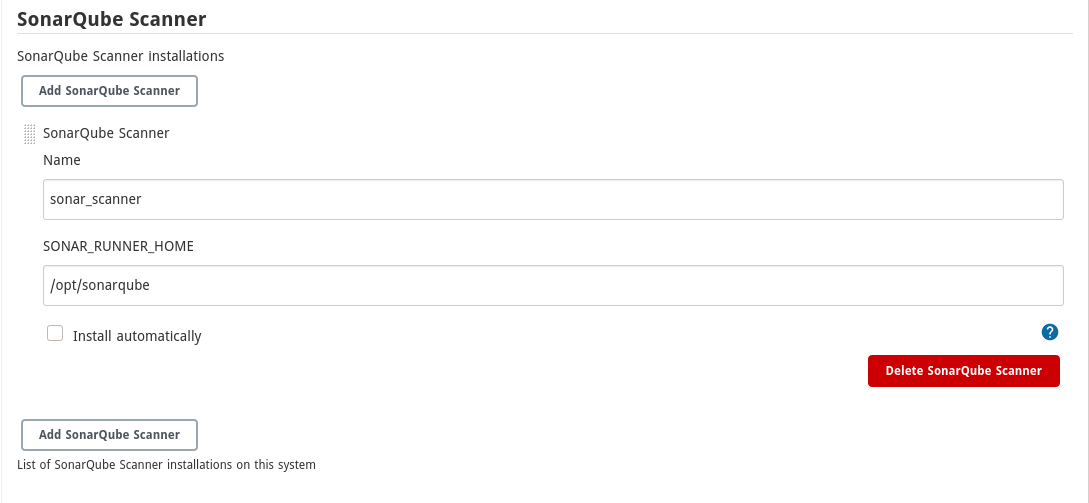
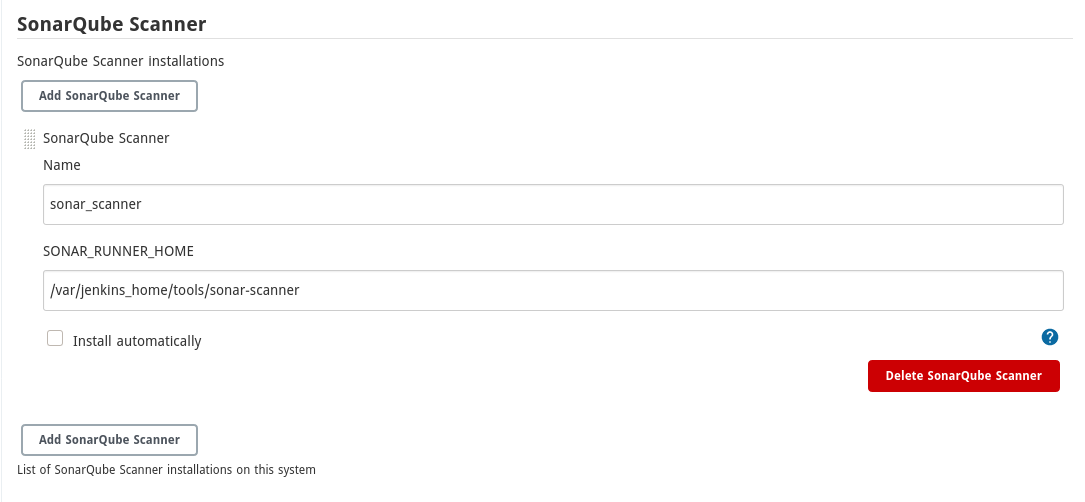
update readme Instalacion

diff --git a/README.md b/README.md
@@ -246,7 +246,7 @@ Primero de todo debemos instalar el plugin de Sonarqube en Jenkins, para ello de
 Configurar la ruta Home de Sonarqube `Dashboard > Manage Jenkins > Global tool configuration > Sonarqube Scanner`. Pero antes debemos crear una carpeta dentro del container de jenkins.
 
 ```
-docker exec -it -u root jenkins-sonar_jenkins_1 mkdir /opt/sonarqube
+docker exec -it -u root jenkins-sonar_jenkins_1 mkdir -p /var/jenkins_home/tools/sonar-scanner
 ```
 
 ![Jenkin Sonarqube Home Photo][Jenkins-SonarInstall]
@@ -260,7 +260,7 @@ Dentro de Sonarqube `My Account > Security > Generate Token`.
 
 
 Ahora toca añadir el token dentro del servidor de Jenkins. `Manage Jenkins > Configure Systems > Sonarqube Servers`.
-En el apartado de `SonarQube servers` pulsamos en el icono de `Add`.  
+Pulsamos en el icono de `Add`.  
 
 ```
 Kind: Secret Text
